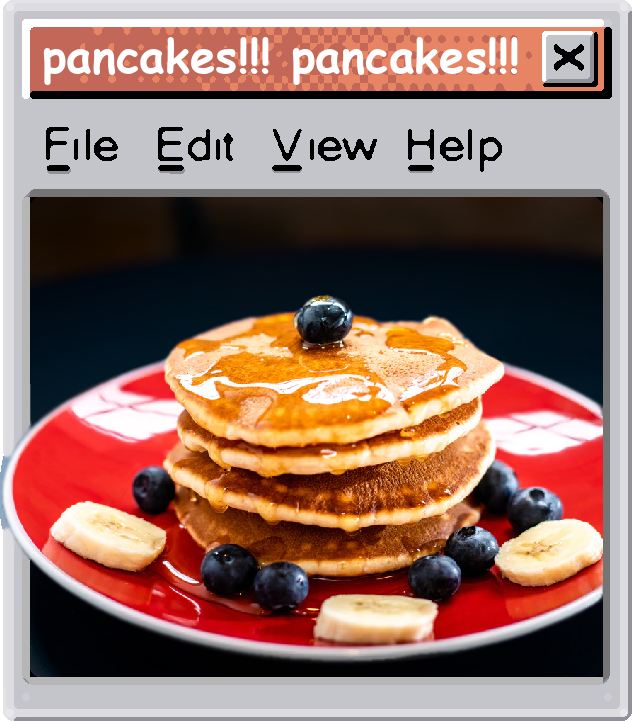
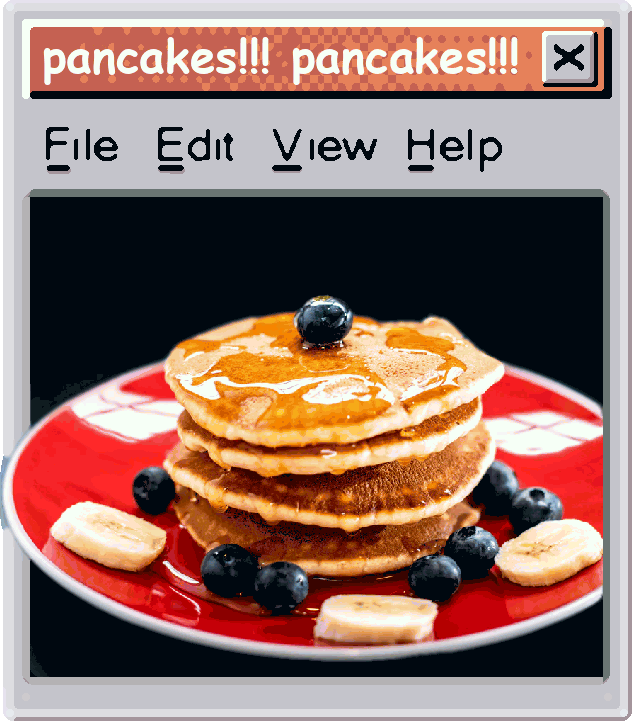
Slight optimizations

diff --git a/index.html b/index.html
@@ -6,6 +6,7 @@
         <meta name="viewport" content="width=device-width, initial-scale=1, maximum-scale=1, user-scalable=no" />
         
         <meta name="author" content="danielpancake" />
+        <meta http-equiv="Cache-Control" content="public">
         <meta name="description" property="og:description" content="danielpancake - the greatest pancake alive! Happy web designer and juniour developer." />
         <meta name="google" content="notranslate" />
         <meta name="google-site-verification" content="JHRMulxU0O2n3QKi7Wkgrxsv-c8xfYE8l_dpI12soAs" />
@@ -30,9 +31,7 @@
         <link rel="stylesheet" href="./css/contact.css">
         <link rel="stylesheet" href="./css/social.css">
 
-        <script src="https://cdnjs.cloudflare.com/ajax/libs/three.js/87/three.js"></script>
-        <script src="https://cdnjs.cloudflare.com/ajax/libs/mustache.js/2.2.1/mustache.min.js"></script>
-        <script src="https://smtpjs.com/v3/smtp.js"></script>
+        <script src="https://cdnjs.cloudflare.com/ajax/libs/three.js/r127/three.min.js"></script>
 
         <noscript>
             <style> /* Yeah, I even care about those chaps and ladies */
@@ -81,7 +80,7 @@
                     <img id="me" class="dropShadow disableDragging" src="./images/author.gif" alt="danielpancake's photo"/>
                     <img id="wordart" class="disableDragging" src="./images/wordart.png" alt="danielpancake">
                     <img id="pointer" class="dropShadow disableDragging" src="./images/pointer1.png" alt="x">
-                    <img id="heart" class="dropShadow disableDragging" src="./images/pancakes.webp" alt="Always fluttering">
+                    <img id="heart" class="dropShadow disableDragging" src="./images/pancakes.png" alt="Always fluttering">
                 </div>
             </section>
 
@@ -222,9 +221,11 @@
         </div>
     </body>
 
+    <script type="text/javascript" src="https://cdnjs.cloudflare.com/ajax/libs/mustache.js/2.2.1/mustache.min.js"></script>
     <script type="text/javascript" src="./js/app.js"></script>
     <script type="text/javascript" src="./js/classes.js"></script>
     <script type="text/javascript" src="./js/colourChanger.js"></script>
     <script type="text/javascript" src="./js/highlight.js"></script>
     <script type="text/javascript" src="./js/toggles.js"></script>
+    <script type="text/javascript" src="https://smtpjs.com/v3/smtp.js"></script>
 </html>

diff --git a/css/main.css b/css/main.css
@@ -5,6 +5,7 @@
         url("../webfonts/mozartnbp.woff2") format("woff2");
     font-weight: normal;
     font-style: normal;
+    font-display: swap;
 }
 
 @font-face {
@@ -14,6 +15,7 @@
         url("../webfonts/OksFree.woff2") format("woff2");
     font-weight: normal;
     font-style: normal;
+    font-display: swap;
 }
 
 @font-face { /* Made by ivancr72 */
@@ -23,6 +25,7 @@
         url("../webfonts/PixelUnicode.woff2") format("woff2");
     font-weight: normal;
     font-style: normal;
+    font-display: swap;
 }
 
 :root {
